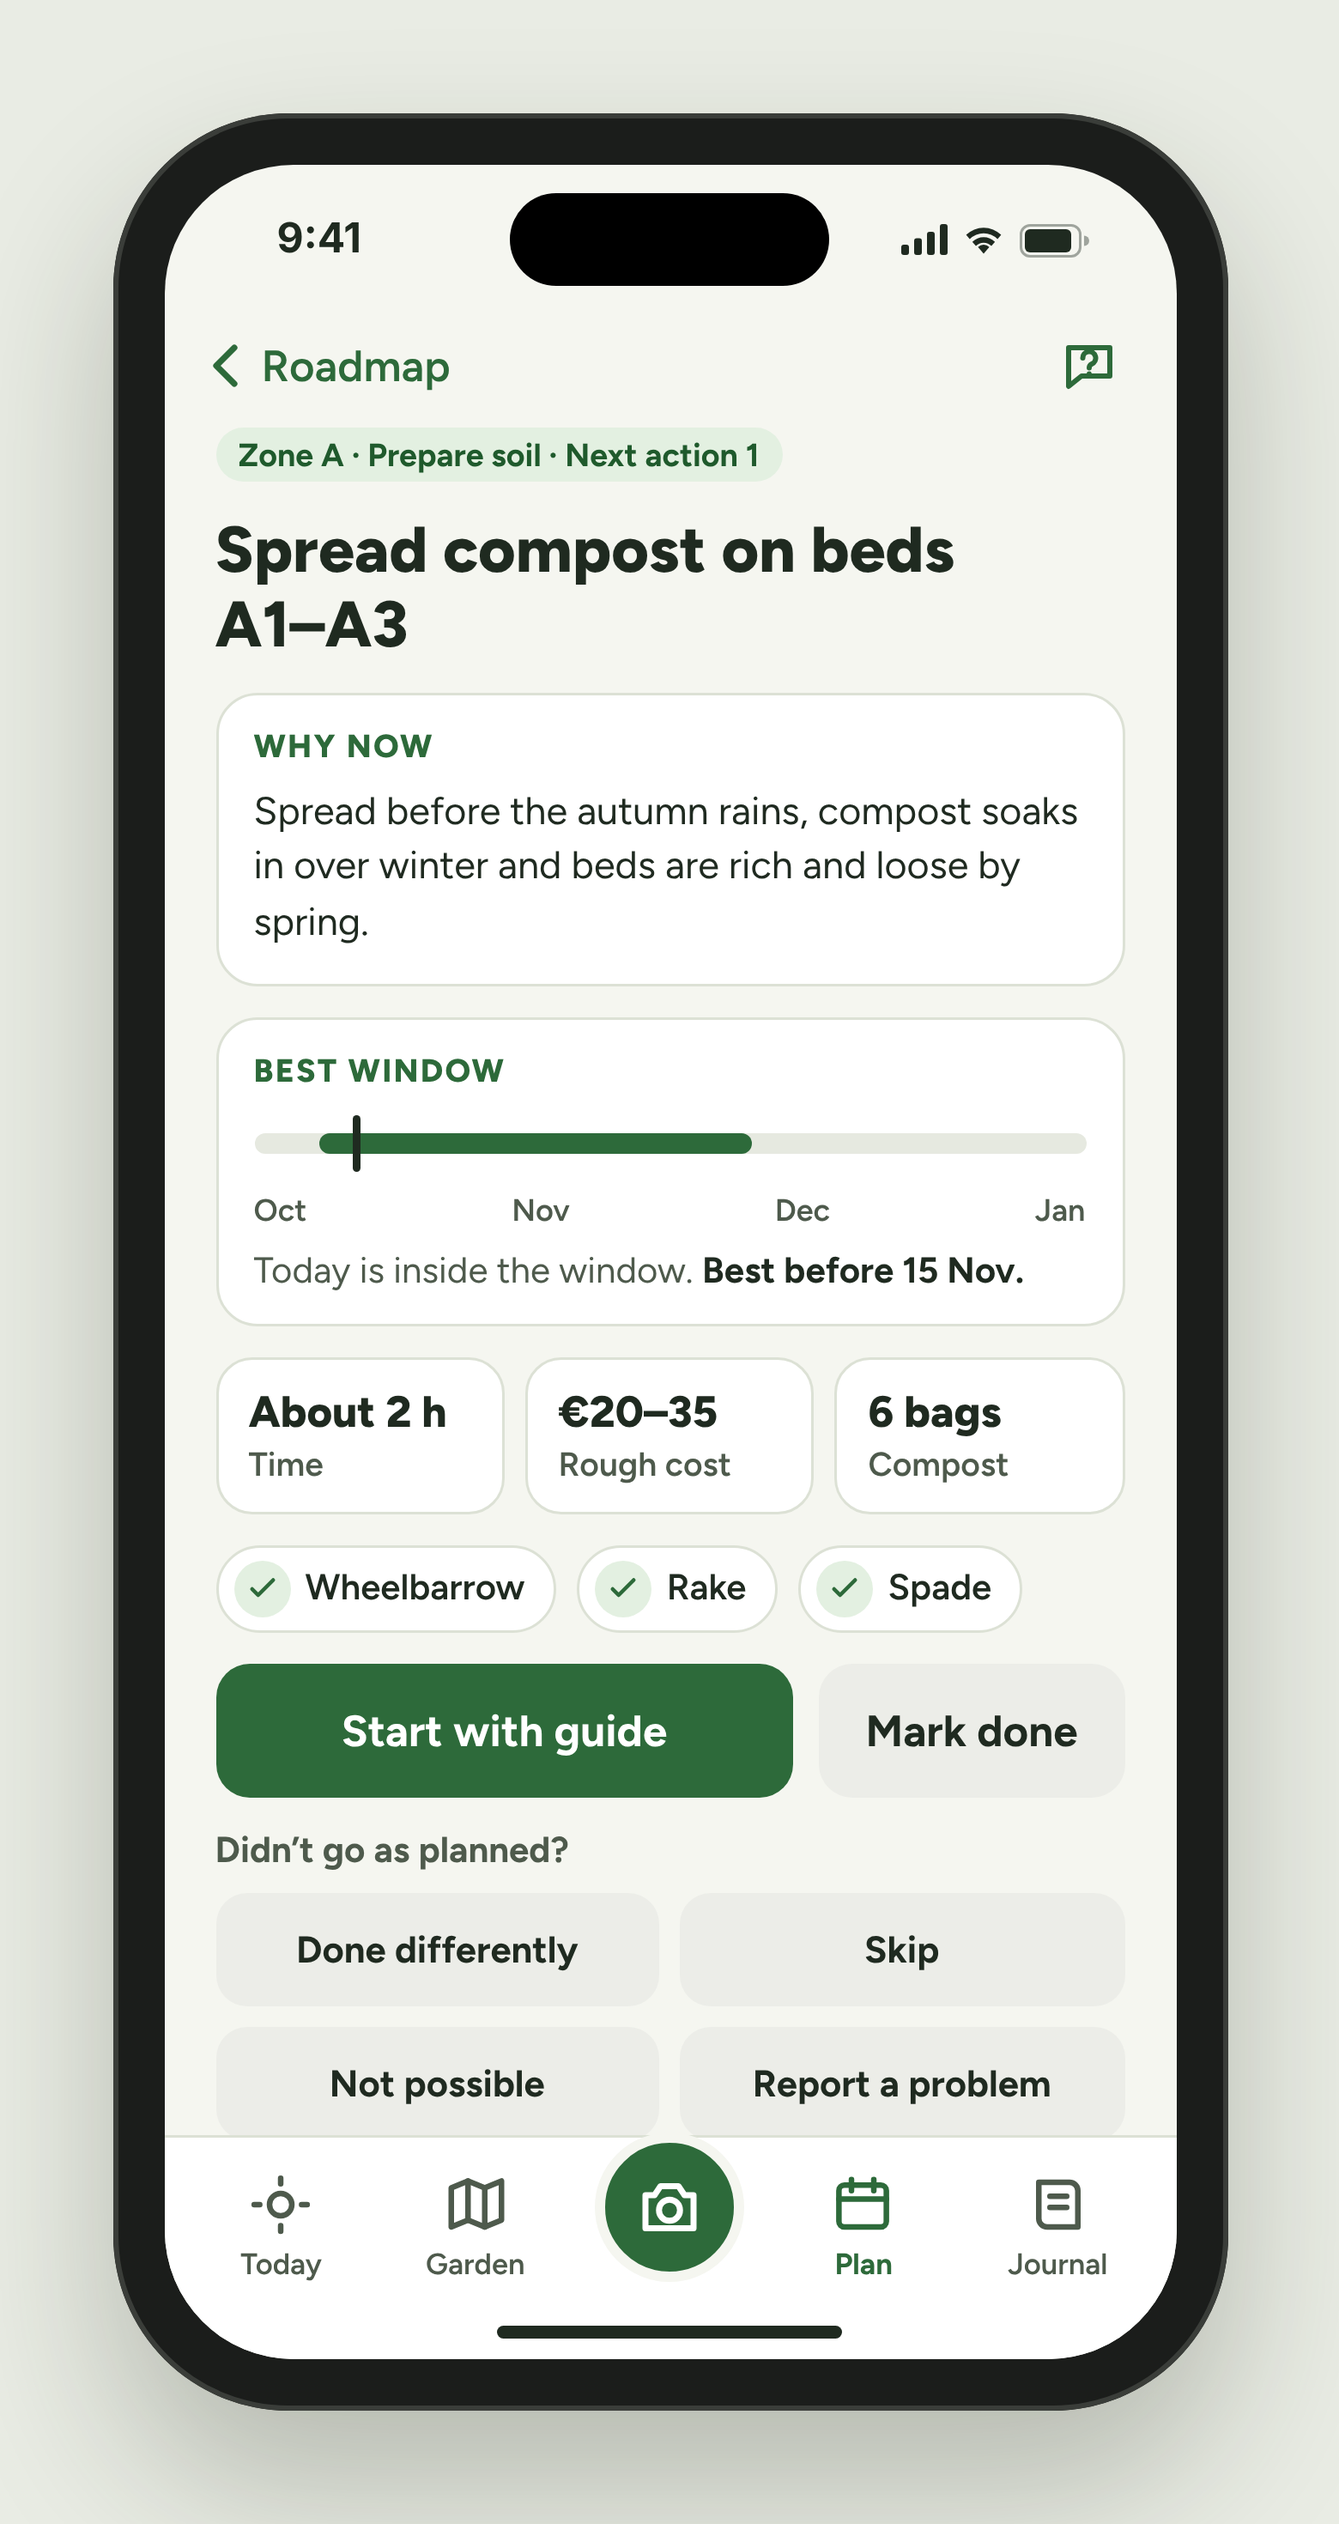
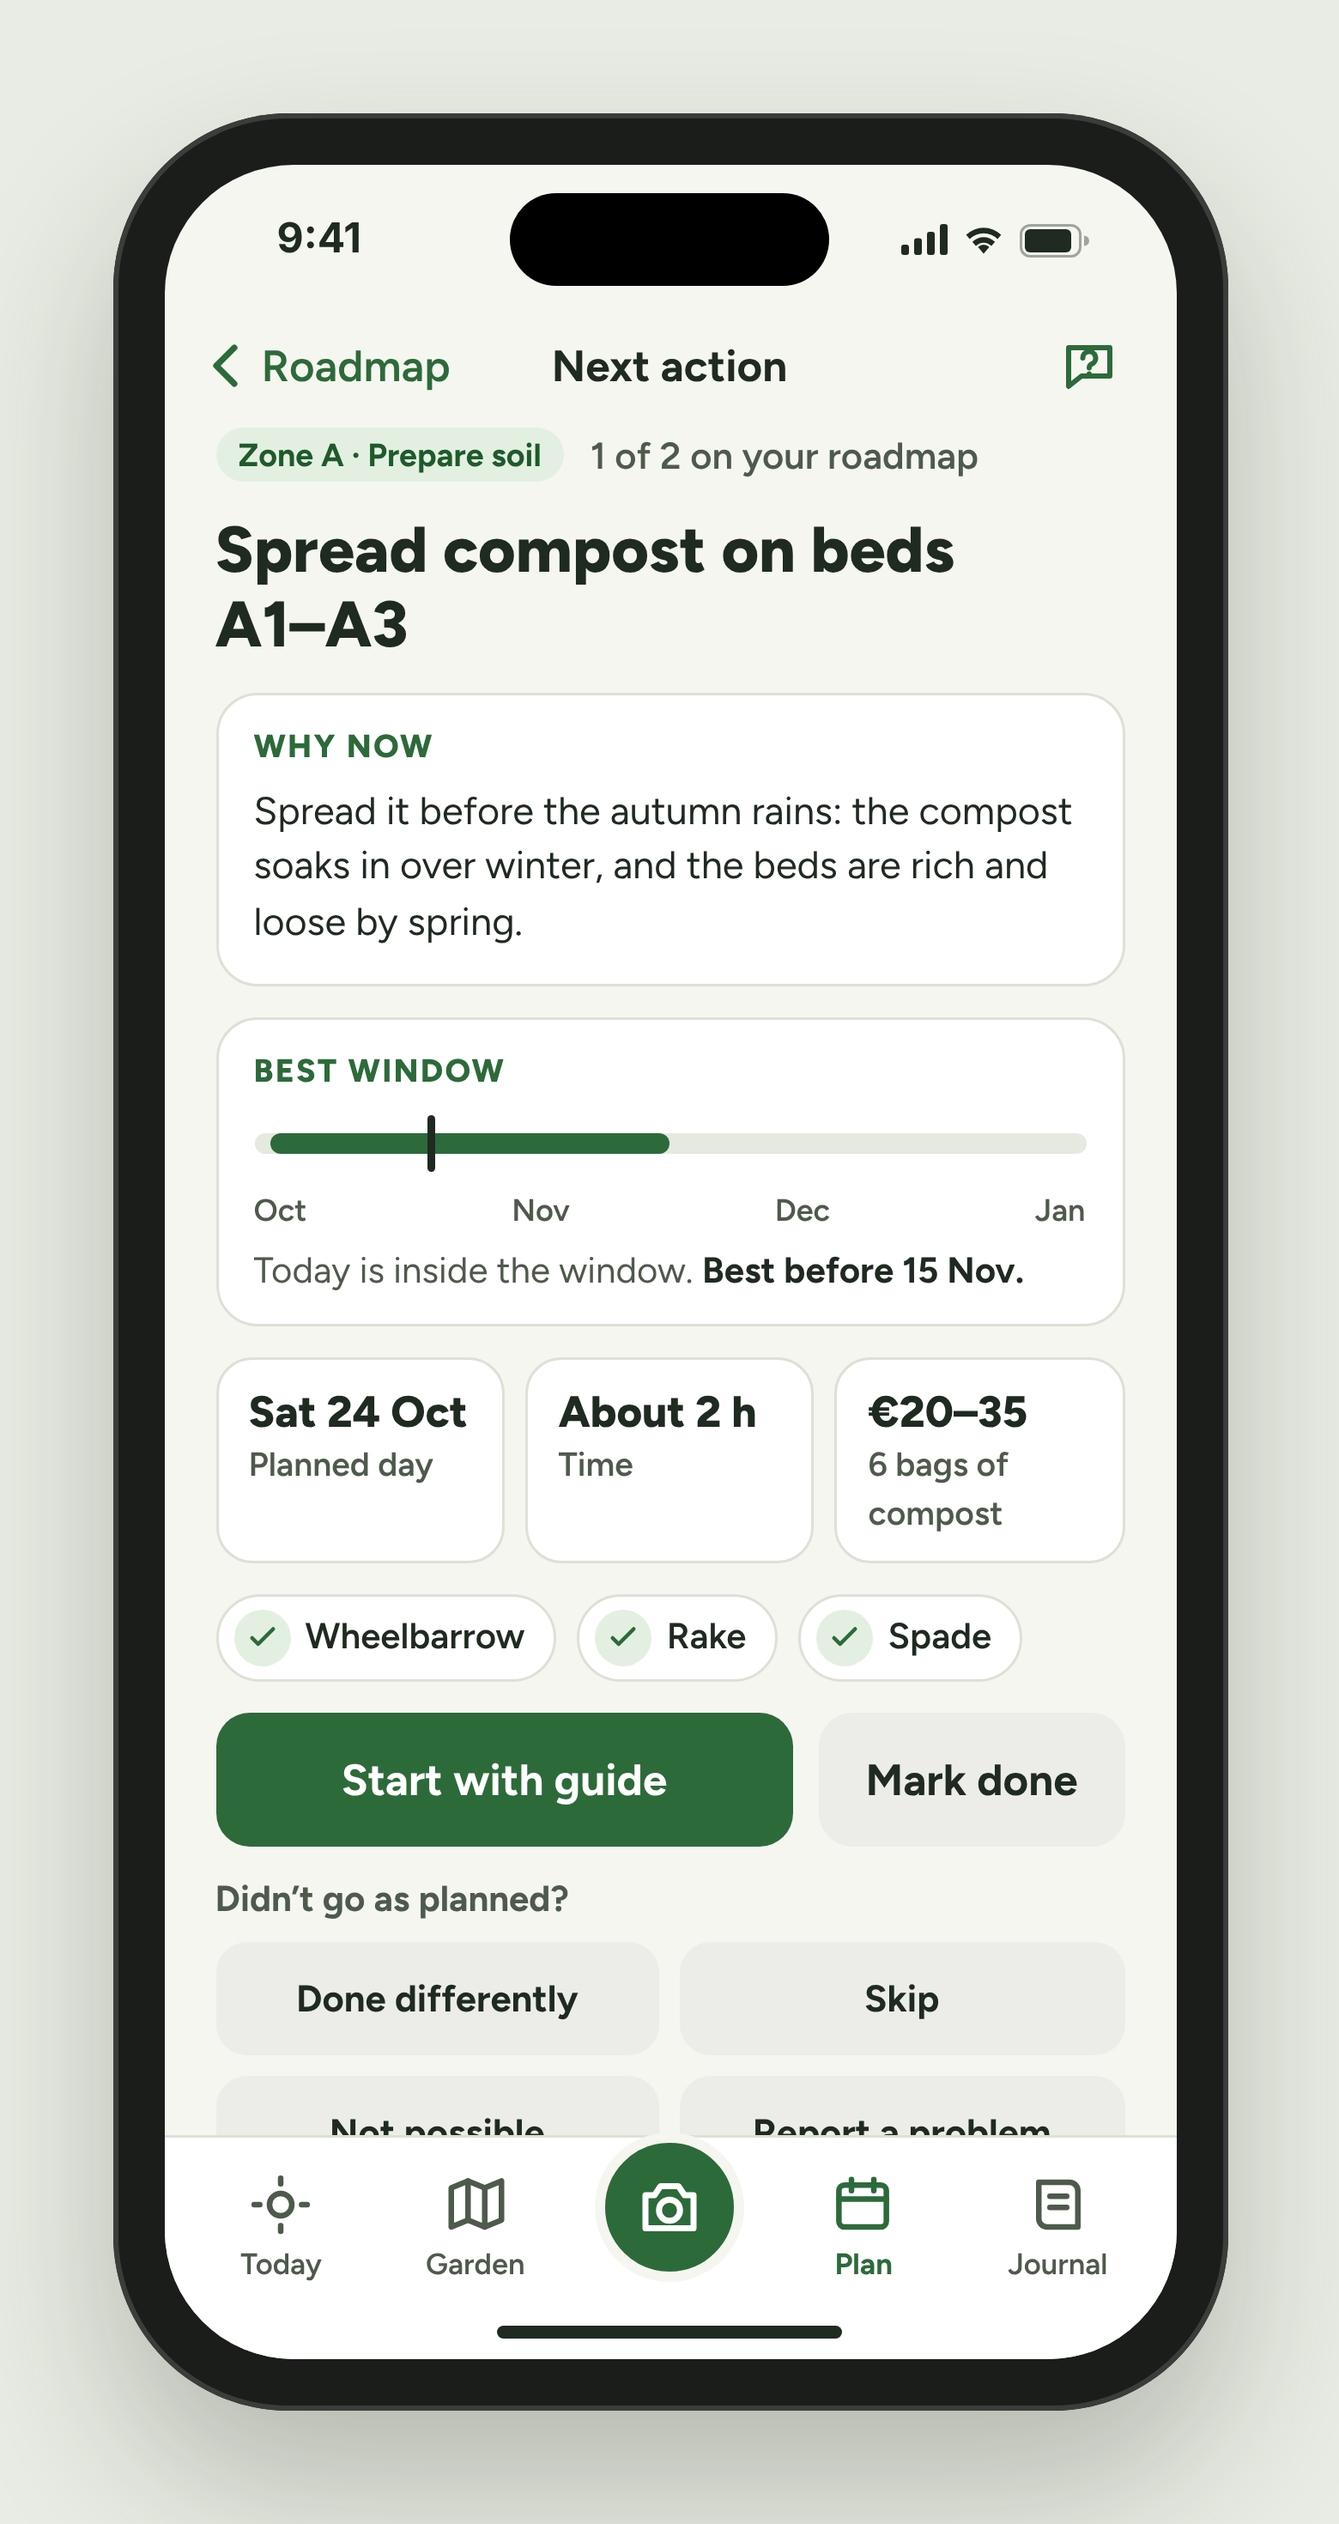
Design E2 next action: small nav title, planned day, correct window bar; B3 phase chip uses Assess
Claude-Session: https://claude.ai/code/session_015NynAjU4naPZwzmeuGazot

diff --git a/design/source/E2-next-action-full.html b/design/source/E2-next-action-full.html
@@ -1,0 +1,113 @@
+<!doctype html>
+<html lang="en">
+<head>
+<meta charset="utf-8">
+<title>E2 Next action detail</title>
+<link href="https://fonts.googleapis.com/css2?family=Figtree:wght@400;500;600;700;800&display=swap" rel="stylesheet">
+<link rel="stylesheet" href="frame.css">
+<style>
+  .nav { height: 48px; padding: 0 12px; display: flex; align-items: center; justify-content: space-between; flex: none; }
+  .nav .back { display: flex; align-items: center; gap: 2px; color: var(--green); font-size: 17px; font-weight: 600; height: 44px; }
+  .nav .title { font-size: 17px; font-weight: 700; }
+  .iconbtn { width: 44px; height: 44px; display: flex; align-items: center; justify-content: center; }
+  .content { flex: 1; padding: 0 20px 120px; display: flex; flex-direction: column; gap: 12px; overflow: hidden; }
+  .chip { align-self: flex-start; font-size: 12.5px; font-weight: 700; padding: 3px 9px; border-radius: 999px; background: var(--green-soft); color: var(--green-ink); }
+  h1 { margin: 0; font-size: 25px; font-weight: 800; line-height: 1.15; }
+  .card { background: #fff; border: 1px solid var(--line); border-radius: 16px; padding: 12px 14px; display: flex; flex-direction: column; gap: 8px; }
+  .label { font-size: 12.5px; font-weight: 800; letter-spacing: .06em; text-transform: uppercase; color: var(--green); }
+  .why { font-size: 15px; line-height: 1.45; }
+  .win { position: relative; height: 24px; margin-top: 0; }
+  .win .bar { position: absolute; top: 9px; left: 0; right: 0; height: 8px; border-radius: 4px; background: #E6E9E0; }
+  .win .ok { position: absolute; top: 9px; left: 2%; width: 48%; height: 8px; border-radius: 4px; background: var(--green); }
+  .win .today { position: absolute; top: 2px; left: 21%; width: 3px; height: 22px; border-radius: 2px; background: var(--text); }
+  .months { display: flex; justify-content: space-between; font-size: 12px; font-weight: 600; color: var(--muted); }
+  .winnote { font-size: 14px; color: var(--muted); }
+  .winnote b { color: var(--text); }
+  .facts { display: grid; grid-template-columns: repeat(3, minmax(0, 1fr)); gap: 8px; }
+  .fact { background: #fff; border: 1px solid var(--line); border-radius: 14px; padding: 10px 12px; }
+  .fact b { display: block; font-size: 17px; font-weight: 800; }
+  .fact span { font-size: 13px; color: var(--muted); font-weight: 600; }
+  .tools { display: flex; gap: 8px; flex-wrap: wrap; }
+  .tool { display: flex; align-items: center; gap: 6px; background: #fff; border: 1px solid var(--line); border-radius: 999px; padding: 5px 11px 5px 6px; font-size: 14px; font-weight: 600; }
+  .tool i { width: 22px; height: 22px; border-radius: 999px; background: var(--green-soft); display: flex; align-items: center; justify-content: center; }
+  .btnrow { display: flex; gap: 10px; }
+  .dev { display: grid; grid-template-columns: repeat(2, minmax(0, 1fr)); gap: 8px; }
+  .dev span { height: 44px; border-radius: 12px; background: #ECEDE8; display: flex; align-items: center; justify-content: center; gap: 6px; font-size: 14.5px; font-weight: 700; }
+  .tabbar { position: absolute; bottom: 0; left: 0; right: 0; background: #fff; border-top: 1px solid var(--line); padding: 8px 8px 30px; display: grid; grid-template-columns: repeat(5, minmax(0, 1fr)); align-items: end; z-index: 45; }
+  .tab { color: var(--muted); display: flex; flex-direction: column; align-items: center; gap: 3px; font-size: 11.5px; font-weight: 600; min-height: 48px; justify-content: flex-end; }
+  .tab.on { color: var(--green); font-weight: 700; }
+  .cam { display: flex; justify-content: center; }
+  .cam span { width: 58px; height: 58px; border-radius: 999px; background: var(--green); display: flex; align-items: center; justify-content: center; margin-top: -22px; border: 4px solid var(--bg); }
+</style>
+<style>.stage{height:1020px}.phone{height:960px}.screen{height:920px}</style>
+</head>
+<body>
+<div class="stage"><div class="phone"><div class="screen">
+  <div class="island"></div>
+  <div class="status">
+    <span>9:41</span>
+    <span class="icons">
+      <svg width="18" height="12" viewBox="0 0 18 12"><rect x="0" y="8" width="3" height="4" rx="1" fill="#1F2A20"/><rect x="5" y="5.5" width="3" height="6.5" rx="1" fill="#1F2A20"/><rect x="10" y="3" width="3" height="9" rx="1" fill="#1F2A20"/><rect x="15" y="0" width="3" height="12" rx="1" fill="#1F2A20"/></svg>
+      <svg width="16" height="12" viewBox="0 0 16 12"><path d="M8 11.5l2.2-2.6a3.2 3.2 0 0 0-4.4 0z" fill="#1F2A20"/><path d="M3.6 6.9a6.3 6.3 0 0 1 8.8 0l-1.4 1.6a4.2 4.2 0 0 0-6 0z" fill="#1F2A20"/><path d="M1.2 4.2a9.7 9.7 0 0 1 13.6 0l-1.4 1.6a7.6 7.6 0 0 0-10.8 0z" fill="#1F2A20"/></svg>
+      <svg width="27" height="13" viewBox="0 0 27 13"><rect x="0.5" y="0.5" width="23" height="12" rx="3.5" fill="none" stroke="#1F2A20" opacity=".4"/><rect x="2" y="2" width="18" height="9" rx="2" fill="#1F2A20"/><path d="M25 4.5v4a2 2 0 0 0 0-4z" fill="#1F2A20" opacity=".4"/></svg>
+    </span>
+  </div>
+
+  <div class="nav">
+    <span class="back"><svg width="24" height="24" viewBox="0 0 24 24" fill="none" stroke="#2D6A3A" stroke-width="2.4" stroke-linecap="round" stroke-linejoin="round"><path d="M15 5l-7 7 7 7"/></svg>Roadmap</span>
+    <span style="position: absolute; left: 50%; transform: translateX(-50%); font-size: 17px; font-weight: 700">Next action</span>
+    <span class="iconbtn" aria-label="Ask about this"><svg width="24" height="24" viewBox="0 0 24 24" fill="none" stroke="#2D6A3A" stroke-width="2" stroke-linecap="round" stroke-linejoin="round"><path d="M4 5h16v11H9l-5 4z"/><path d="M9.5 9a2.5 2.5 0 1 1 3.5 2.3c-.6.3-1 .8-1 1.5"/><path d="M12 15.2v.01"/></svg></span>
+  </div>
+
+  <div class="content">
+    <div style="display: flex; gap: 10px; align-items: center"><span class="chip">Zone A · Prepare soil</span><span style="font-size: 14.5px; color: var(--muted); font-weight: 600">1 of 2 on your roadmap</span></div>
+    <h1>Spread compost on beds <span style="white-space: nowrap">A1–A3</span></h1>
+
+    <div class="card">
+      <span class="label">Why now</span>
+      <div class="why">Spread it before the autumn rains: the compost soaks in over winter, and the beds are rich and loose by spring.</div>
+    </div>
+
+    <div class="card">
+      <span class="label">Best window</span>
+      <div class="win"><div class="bar"></div><div class="ok"></div><div class="today"></div></div>
+      <div class="months"><span>Oct</span><span>Nov</span><span>Dec</span><span>Jan</span></div>
+      <div class="winnote">Today is inside the window. <b>Best before 15 Nov.</b></div>
+    </div>
+
+    <div class="facts">
+      <div class="fact"><b>Sat 24 Oct</b><span>Planned day</span></div>
+      <div class="fact"><b>About 2 h</b><span>Time</span></div>
+      <div class="fact"><b>€20–35</b><span>6 bags of compost</span></div>
+    </div>
+
+    <div class="tools">
+      <span class="tool"><i><svg width="14" height="14" viewBox="0 0 24 24" fill="none" stroke="#2D6A3A" stroke-width="2.6" stroke-linecap="round" stroke-linejoin="round"><path d="M5 12l4 4 10-10"/></svg></i>Wheelbarrow</span>
+      <span class="tool"><i><svg width="14" height="14" viewBox="0 0 24 24" fill="none" stroke="#2D6A3A" stroke-width="2.6" stroke-linecap="round" stroke-linejoin="round"><path d="M5 12l4 4 10-10"/></svg></i>Rake</span>
+      <span class="tool"><i><svg width="14" height="14" viewBox="0 0 24 24" fill="none" stroke="#2D6A3A" stroke-width="2.6" stroke-linecap="round" stroke-linejoin="round"><path d="M5 12l4 4 10-10"/></svg></i>Spade</span>
+    </div>
+
+    <div class="btnrow">
+      <div class="btn primary" style="flex: 1">Start with guide</div>
+      <div class="btn secondary" style="flex: none; padding: 0 18px">Mark done</div>
+    </div>
+
+    <div style="display: flex; flex-direction: column; gap: 8px">
+      <span style="font-size: 14px; font-weight: 700; color: var(--muted)">Didn’t go as planned?</span>
+      <div class="dev">
+        <span>Done differently</span><span>Skip</span><span>Not possible</span><span>Report a problem</span>
+      </div>
+    </div>
+  </div>
+
+  <nav class="tabbar">
+    <div class="tab"><svg width="26" height="26" viewBox="0 0 24 24" fill="none" stroke="currentColor" stroke-width="2" stroke-linecap="round" stroke-linejoin="round"><circle cx="12" cy="12" r="4"/><path d="M12 2.5v2M12 19.5v2M2.5 12h2M19.5 12h2"/></svg>Today</div>
+    <div class="tab"><svg width="26" height="26" viewBox="0 0 24 24" fill="none" stroke="currentColor" stroke-width="2" stroke-linecap="round" stroke-linejoin="round"><path d="M3 6l6-2.5 6 2.5 6-2.5v14l-6 2.5-6-2.5-6 2.5z"/><path d="M9 3.5v14M15 6v14"/></svg>Garden</div>
+    <div class="cam"><span><svg width="28" height="28" viewBox="0 0 24 24" fill="none" stroke="#FFFFFF" stroke-width="2" stroke-linecap="round" stroke-linejoin="round"><path d="M4 8h3l2-3h6l2 3h3v11H4z"/><circle cx="12" cy="13" r="3.5"/></svg></span></div>
+    <div class="tab on"><svg width="26" height="26" viewBox="0 0 24 24" fill="none" stroke="currentColor" stroke-width="2" stroke-linecap="round" stroke-linejoin="round"><rect x="3.5" y="5" width="17" height="15" rx="2"/><path d="M3.5 10h17M8 3v4M16 3v4"/></svg>Plan</div>
+    <div class="tab"><svg width="26" height="26" viewBox="0 0 24 24" fill="none" stroke="currentColor" stroke-width="2" stroke-linecap="round" stroke-linejoin="round"><path d="M5 4h11a3 3 0 0 1 3 3v13H8a3 3 0 0 1-3-3z"/><path d="M9 9h6M9 13h6"/></svg>Journal</div>
+  </nav>
+  <div class="home"></div>
+</div></div></div>
+</body>
+</html>

diff --git a/design/source/E2-next-action.html b/design/source/E2-next-action.html
@@ -18,8 +18,8 @@
   .why { font-size: 15px; line-height: 1.45; }
   .win { position: relative; height: 24px; margin-top: 0; }
   .win .bar { position: absolute; top: 9px; left: 0; right: 0; height: 8px; border-radius: 4px; background: #E6E9E0; }
-  .win .ok { position: absolute; top: 9px; left: 8%; width: 52%; height: 8px; border-radius: 4px; background: var(--green); }
-  .win .today { position: absolute; top: 2px; left: 12%; width: 3px; height: 22px; border-radius: 2px; background: var(--text); }
+  .win .ok { position: absolute; top: 9px; left: 2%; width: 48%; height: 8px; border-radius: 4px; background: var(--green); }
+  .win .today { position: absolute; top: 2px; left: 21%; width: 3px; height: 22px; border-radius: 2px; background: var(--text); }
   .months { display: flex; justify-content: space-between; font-size: 12px; font-weight: 600; color: var(--muted); }
   .winnote { font-size: 14px; color: var(--muted); }
   .winnote b { color: var(--text); }
@@ -54,16 +54,17 @@
 
   <div class="nav">
     <span class="back"><svg width="24" height="24" viewBox="0 0 24 24" fill="none" stroke="#2D6A3A" stroke-width="2.4" stroke-linecap="round" stroke-linejoin="round"><path d="M15 5l-7 7 7 7"/></svg>Roadmap</span>
+    <span style="position: absolute; left: 50%; transform: translateX(-50%); font-size: 17px; font-weight: 700">Next action</span>
     <span class="iconbtn" aria-label="Ask about this"><svg width="24" height="24" viewBox="0 0 24 24" fill="none" stroke="#2D6A3A" stroke-width="2" stroke-linecap="round" stroke-linejoin="round"><path d="M4 5h16v11H9l-5 4z"/><path d="M9.5 9a2.5 2.5 0 1 1 3.5 2.3c-.6.3-1 .8-1 1.5"/><path d="M12 15.2v.01"/></svg></span>
   </div>
 
   <div class="content">
-    <span class="chip">Zone A · Prepare soil · Next action 1</span>
+    <div style="display: flex; gap: 10px; align-items: center"><span class="chip">Zone A · Prepare soil</span><span style="font-size: 14.5px; color: var(--muted); font-weight: 600">1 of 2 on your roadmap</span></div>
     <h1>Spread compost on beds <span style="white-space: nowrap">A1–A3</span></h1>
 
     <div class="card">
       <span class="label">Why now</span>
-      <div class="why">Spread before the autumn rains, compost soaks in over winter and beds are rich and loose by spring.</div>
+      <div class="why">Spread it before the autumn rains: the compost soaks in over winter, and the beds are rich and loose by spring.</div>
     </div>
 
     <div class="card">
@@ -74,9 +75,9 @@
     </div>
 
     <div class="facts">
+      <div class="fact"><b>Sat 24 Oct</b><span>Planned day</span></div>
       <div class="fact"><b>About 2 h</b><span>Time</span></div>
-      <div class="fact"><b>€20–35</b><span>Rough cost</span></div>
-      <div class="fact"><b>6 bags</b><span>Compost</span></div>
+      <div class="fact"><b>€20–35</b><span>6 bags of compost</span></div>
     </div>
 
     <div class="tools">

diff --git a/design/source/B3-task-detail.html b/design/source/B3-task-detail.html
@@ -77,7 +77,7 @@
   <div class="content" style="gap: 12px; bottom: 150px">
     <div class="nav"><div class="back" style="width: auto; margin-left: -6px; gap: 2px; color: var(--green); font-size: 17px; font-weight: 600"><svg width="22" height="22" viewBox="0 0 24 24" fill="none" stroke="#2D6A3A" stroke-width="2.4" stroke-linecap="round" stroke-linejoin="round"><path d="M15 5l-7 7 7 7"/></svg>Tasks</div><div class="ntitle">Task</div><div class="nright"><svg width="22" height="22" viewBox="0 0 24 24" fill="#1F2A20"><circle cx="5" cy="12" r="2"/><circle cx="12" cy="12" r="2"/><circle cx="19" cy="12" r="2"/></svg></div></div>
     <div style="display: flex; flex-direction: column; gap: 8px">
-      <div class="row" style="gap: 8px"><span class="chip" style="background: var(--blue-soft); color: var(--blue-ink)">Zone B · Clear land</span><span class="meta">From your roadmap</span></div>
+      <div class="row" style="gap: 8px"><span class="chip" style="background: var(--blue-soft); color: var(--blue-ink)">Zone B · Assess</span><span class="meta">From your roadmap</span></div>
       <h1 style="font-size: 25px; line-height: 1.15">Cut back brambles along the fence</h1>
     </div>
     <div class="kv">
